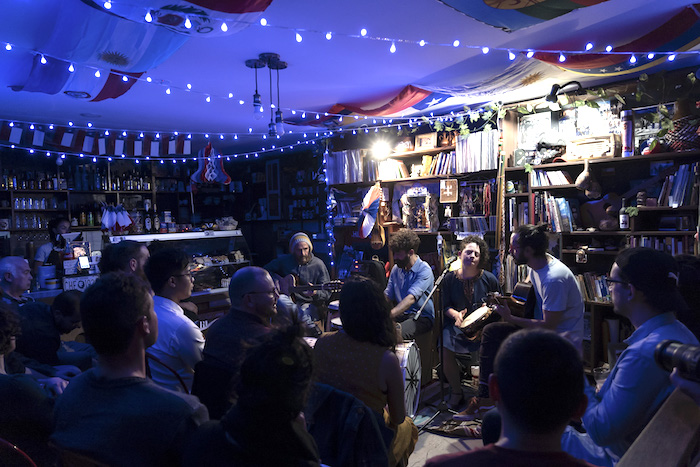
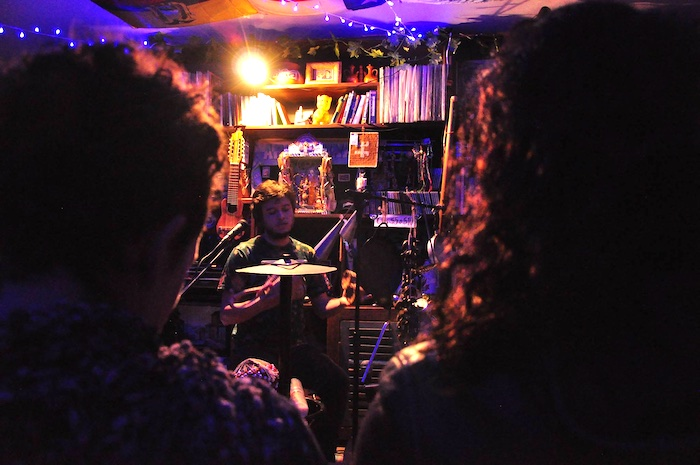
brazilian weekend

diff --git a/brazilian_weekend/index.md b/brazilian_weekend/index.md
@@ -4,6 +4,8 @@ title: La Peñita Del Neruda
 subtitle: Brazilian Weekend
 ---
 
+<img class="img-fluid float-right ml-3 mb-3" src="images/brazilian_weekend_flyer.jpg" />
+
 ## Engaging with local community
 
 On 15th & 16th September 2018 
@@ -14,6 +16,36 @@ The guitar duo Rasteiro played on Saturday their originals songs and some Brazil
 On Sunday we had Tide performing his solo project. Tide is a very talented guitarist player and lead singer of the bands, ‘Rua’ & ‘Vento Pipa’. In his solo project he uses a wide range of percussive instruments and a loop pedal to accompany his guitar and voice. The result is an organic and authentic style of Brazilian music.
 [More about Tide](www.tideneto.com)
 
+---
 
+ <div class="row">
+  <figure class=" col-lg-6 col-md-6">
+    <img class="img-fluid" src="images/brazilian_weekend_1.jpg">  
+  </figure>
+  <figure class=" col-lg-6 col-md-6">
+  	<img class="img-fluid" src="images/brazilian_weekend_2.jpg">  
+  </figure>
+  <figure class=" col-lg-6 col-md-6">
+    <img class="img-fluid" src="images/brazilian_weekend_3.jpg">  
+  </figure>
+  <figure class=" col-lg-6 col-md-6">
+	<img class="img-fluid" src="images/brazilian_weekend_4.jpg">  
+  </figure>
+</div>
 
+---  
+<h2 class="content-subhead">Cast and Creatives</h2>     
+
+<dl class="row">
+
+  <dt class="col-6">Photographer</dt>
+  <dd class="col-6">Igor Dallegrave, Tiago Brissos, Daniela Sönksen</dd>
+
+  <dt class="col-6">Musicians</dt>
+  <dd class="col-6">Marcelo Garcia, Maurizio Gulina, Julia Calasso, Tiago Ucella, Tide</dd>
+
+  <dt class="col-6">Sound Engineer</dt>
+  <dd class="col-6">Alcides Neto</dd>
+
+</dl>
 

diff --git a/live_in_the_gallery_1_edition/index.md b/live_in_the_gallery_1_edition/index.md
@@ -68,7 +68,7 @@ With soul shooting global melodies, Rasteiro is a musical project with the aim o
   <dd class="col-6">Igor Dallegrave</dd>
 
   <dt class="col-6">Musicians</dt>
-  <dd class="col-6">Marcelo Garcia, Maurizio Gulina, Julia Calasso, Tiago Ucella, Stefano Vespucci, Clarens Sanches</dd>
+  <dd class="col-6">Marcelo Garcia, Maurizio Gulina, Julia Calasso, Tiago Ucella, Stefano Vespucci, Clarens Sanchez</dd>
 
   <dt class="col-6">Sound Engineer</dt>
   <dd class="col-6">Alcides Neto</dd>
